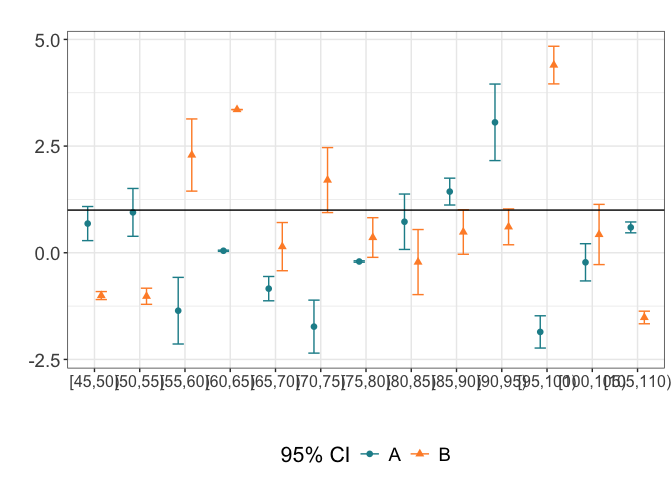
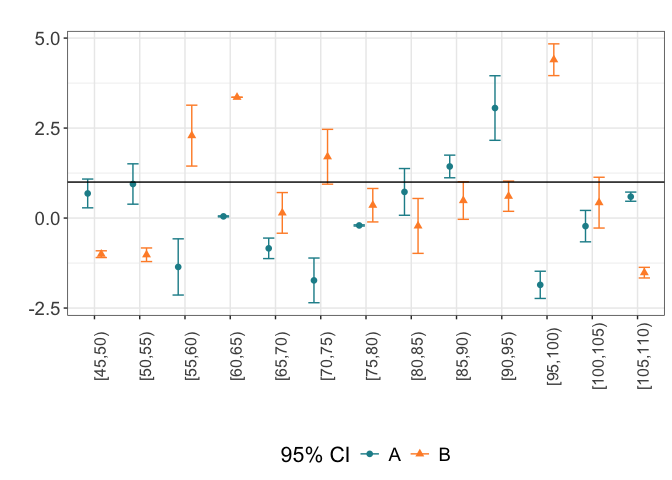
clean up code

diff --git a/README.md b/README.md
@@ -18,17 +18,8 @@ You can install the development version of bloodlines from
 pak::pak("jhuwit/bloodlines")
 #> ℹ Loading metadata database✔ Loading metadata database ... done
 #>  
-#> → Will update 1 package.
-#> → Will download 1 package with unknown size.
-#> + bloodlines 0.0.0.9000 → 0.0.0.9000 👷♂🔧 ⬇ (GitHub: 20d2577)
-#> ℹ Getting 1 pkg with unknown size
-#> ✔ Got bloodlines 0.0.0.9000 (source) (3.83 MB)
-#> ℹ Packaging bloodlines 0.0.0.9000
-#> ✔ Packaged bloodlines 0.0.0.9000 (1.2s)
-#> ℹ Building bloodlines 0.0.0.9000
-#> ✔ Built bloodlines 0.0.0.9000 (4.1s)
-#> ✔ Installed bloodlines 0.0.0.9000 (github::jhuwit/bloodlines@20d2577) (92ms)
-#> ✔ 1 pkg + 40 deps: kept 26, upd 1, dld 1 (NA B) [16.8s]
+#> ℹ No downloads are needed
+#> ✔ 1 pkg + 40 deps: kept 27 [9.3s]
 ```
 
 ## Lasagna plots
@@ -55,7 +46,22 @@ sample_df_clean =
                 cat_cpb = factor(cat_cpb,
                                  levels = c("pre", "post"),
                                  labels = c("Pre-CPB", "Post-CPB")),
-                time = time / 60)
+                time = time / 60) %>% 
+  print()
+#> # A tibble: 36,329 × 7
+#>    id      time timestamp           cat_cpb val_map val_cvp cat_map 
+#>    <chr>  <dbl> <dttm>              <fct>     <dbl>   <dbl> <fct>   
+#>  1 1     0      2019-01-01 00:18:20 Pre-CPB    97.6  18.4   [65,Inf)
+#>  2 1     0.0167 2019-01-01 00:19:20 Pre-CPB    73.6  13.6   [65,Inf)
+#>  3 1     0.0333 2019-01-01 00:20:20 Pre-CPB    NA    12.8   Missing 
+#>  4 1     0.05   2019-01-01 00:21:20 Pre-CPB    66.1  11.5   [65,Inf)
+#>  5 1     0.0667 2019-01-01 00:22:20 Pre-CPB    61.6   3.55  [0,65)  
+#>  6 1     0.0833 2019-01-01 00:23:20 Pre-CPB    99.7   4.31  [65,Inf)
+#>  7 1     0.1    2019-01-01 00:24:20 Pre-CPB    87.8   9.37  [65,Inf)
+#>  8 1     0.117  2019-01-01 00:25:20 Pre-CPB    91.0   0.968 [65,Inf)
+#>  9 1     0.133  2019-01-01 00:26:20 Pre-CPB    99.0   1.86  [65,Inf)
+#> 10 1     0.15   2019-01-01 00:27:20 Pre-CPB   113.   13.0   [65,Inf)
+#> # ℹ 36,319 more rows
 
 # paletteer::paletteer_d("colorBlindness::Blue2DarkRed12Steps")
 cols = c(
@@ -72,7 +78,8 @@ plot_lasagna(data = sample_df_clean,
              title = "Lasagna Plot",
              xlims = c(0, 4),
              xbreaks = seq(0, 4, 1),
-             col_vec = cols)
+             col_vec = cols) %>% 
+  print()
 #> Warning: Removed 5 rows containing missing values or values outside the scale range
 #> (`geom_bar()`).
 ```
@@ -90,7 +97,8 @@ sample_df_clean2 =
   dplyr::mutate(id = forcats::fct_reorder(id, n))
 plot_ts_lasagna(sample_df %>% dplyr::filter(cat_cpb != "intra"),
              facet_var = "cat_cpb",
-             layer_var = "cat_map")
+             layer_var = "cat_map") %>% 
+  print()
 ```
 
 <img src="man/figures/README-time_series_lasagna-1.png" width="100%" />
@@ -106,7 +114,8 @@ plot_ts_lasagna(data = sample_df_clean2,
              title = "Time series lasagna Plot",
              xlims = c(0, 4),
              xbreaks = seq(0, 4, 1),
-             col_vec = cols)
+             col_vec = cols) %>% 
+  print()
 #> Warning: Removed 200 rows containing missing values or values outside the scale range
 #> (`geom_tile()`).
 ```
@@ -124,7 +133,8 @@ plot_heatmap(data = reg_df,
              title = "Regression Results",
              sig = TRUE,
              text_col = "black",
-             fill_scheme = "gradient2")
+             fill_scheme = "gradient2") %>% 
+  print()
 ```
 
 <img src="man/figures/README-heatmap-1.png" width="100%" />
@@ -141,7 +151,8 @@ plot_heatmap(data = reg_df,
              text_col = "black",
              fill_scheme = "palette",
              palette = "viridis::plasma",
-             show_only_sig = TRUE)
+             show_only_sig = TRUE) %>% 
+  print()
 ```
 
 <img src="man/figures/README-heatmap-2.png" width="100%" />
@@ -157,7 +168,8 @@ plot_heatmap(data = reg_df,
              sig = TRUE,
              text_col = "black",
              fill_scheme = "gradientn",
-             n_colors = 5)
+             n_colors = 5) %>% 
+  print()
 ```
 
 <img src="man/figures/README-heatmap-3.png" width="100%" />
@@ -168,13 +180,13 @@ plot_heatmap(data = reg_df,
 data(mult_reg_df)
 
 
-plot_j(mult_reg_df, col_vec = c("A" = "#1E8E99", "B" = "#FF8E32"))
+p = plot_j(mult_reg_df, col_vec = c("A" = "#1E8E99", "B" = "#FF8E32"))
+p + ggplot2::theme(axis.text.x =  ggplot2::element_text(angle = 90))
 ```
 
 <img src="man/figures/README-j_plot-1.png" width="100%" />
 
 ``` r
-
 
 ## example with facets 
 
@@ -184,11 +196,14 @@ facet_data =
   dplyr::bind_rows(mult_reg_df %>% dplyr::mutate(v1 = "Post-CPB")) %>% 
   dplyr::mutate(v1 = forcats::fct_rev(v1))
 
-plot_j(
+p = plot_j(
   facet_data,
   col_vec = c("A" = "#1E8E99", "B" = "#FF8E32"),
-  facet_var = "v1"
+  facet_var = "v1",
+  x_label = "MAP Range",
+  y_label = "Odds Ratio"
 )
+p + ggplot2::theme(axis.text.x =  ggplot2::element_text(angle = 90))
 ```
 
 <img src="man/figures/README-j_plot-2.png" width="100%" />
